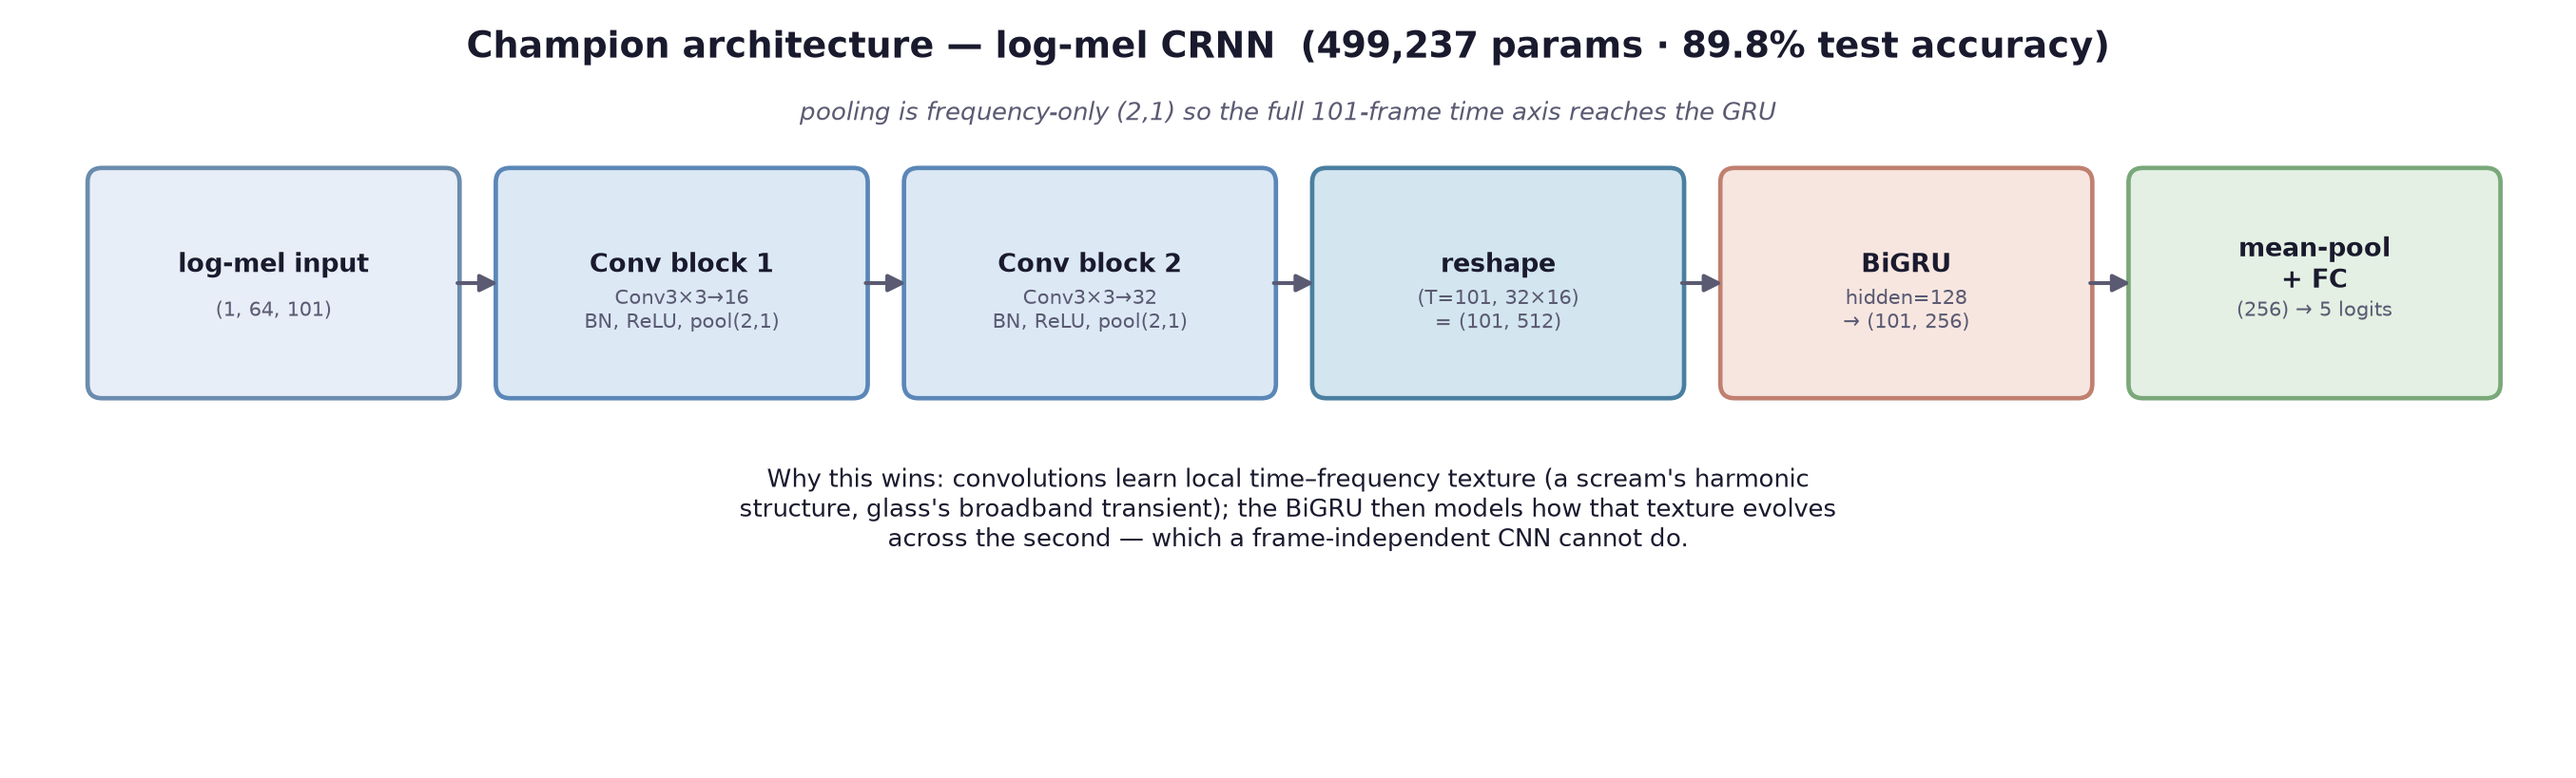
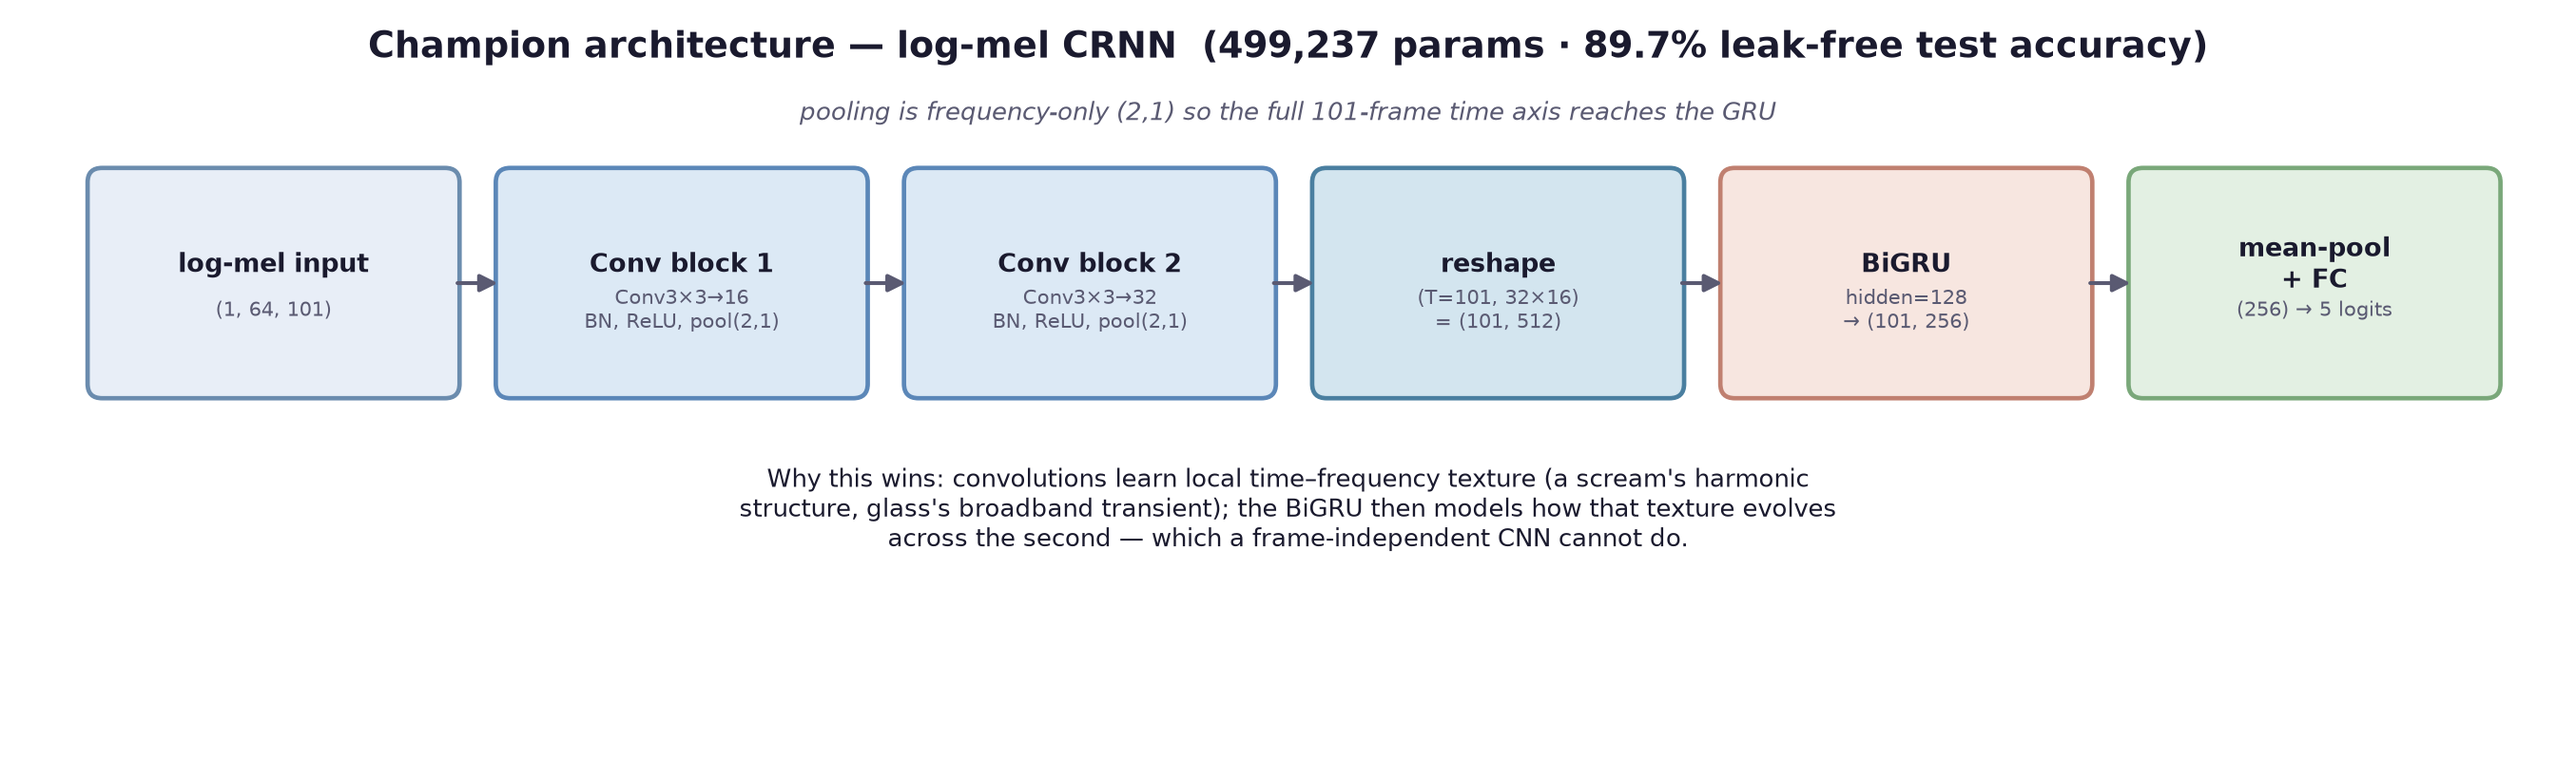
Put v2 leak-free numbers on the architecture diagrams

Changed region(s): [[0.124, 0.0305, 0.8682, 0.0916]]

diff --git a/scripts/13_make_diagrams.py b/scripts/13_make_diagrams.py
@@ -122,7 +122,7 @@ def crnn_diagram(hidden):
     for i in range(len(xs) - 1):
         arrow(ax, (xs[i] + bw, y + bh / 2), (xs[i + 1], y + bh / 2))
 
-    ax.text(5.0, 2.92, f"Champion architecture — log-mel CRNN  (499,237 params · 89.8% test accuracy)",
+    ax.text(5.0, 2.92, f"Champion architecture — log-mel CRNN  (499,237 params · 89.7% leak-free test accuracy)",
             ha="center", fontsize=13, fontweight="bold", color=INK)
     ax.text(5.0, 2.66, "pooling is frequency-only (2,1) so the full 101-frame time axis reaches the GRU",
             ha="center", fontsize=9, color=DIM, style="italic")
@@ -141,12 +141,12 @@ def compare_diagram():
     fig, ax = canvas(13, 4.6)
     rows = [
         ("MFCC-CNN", "#c08070", ["MFCC (40×101)", "4× Conv+BN+ReLU\n16→32→64→64", "AdaptiveAvgPool", "FC → 5"],
-         "60,901 params · 248.6 KB · 0.44 ms · 66.6%"),
+         "60,901 params · 248.5 KB · 0.52 ms · 79.2%"),
         ("log-mel CRNN", "#7aa87a", ["log-mel (64×101)", "2× Conv+BN+ReLU\n16→32", "BiGRU (128)", "mean-pool, FC → 5"],
-         "499,237 params · 516.4 KB int8 · 11.6 ms · 89.8%"),
+         "499,237 params · 516.4 KB int8 · 6.90 ms · 89.7%"),
         ("Tiny Transformer", "#9280b0", ["log-mel (64×101)", "Linear proj → 64\n+ CLS + pos-embed",
                                           "2× Encoder layer\n4 heads", "CLS → FC → 5"],
-         "84,293 params · 339.0 KB · 0.48 ms · 73.5%"),
+         "84,293 params · 339.0 KB · 0.48 ms · 83.8%"),
     ]
     bw, bh, gap = 1.76, 0.72, 1.90
     for r, (name, color, stages, stat) in enumerate(rows):
